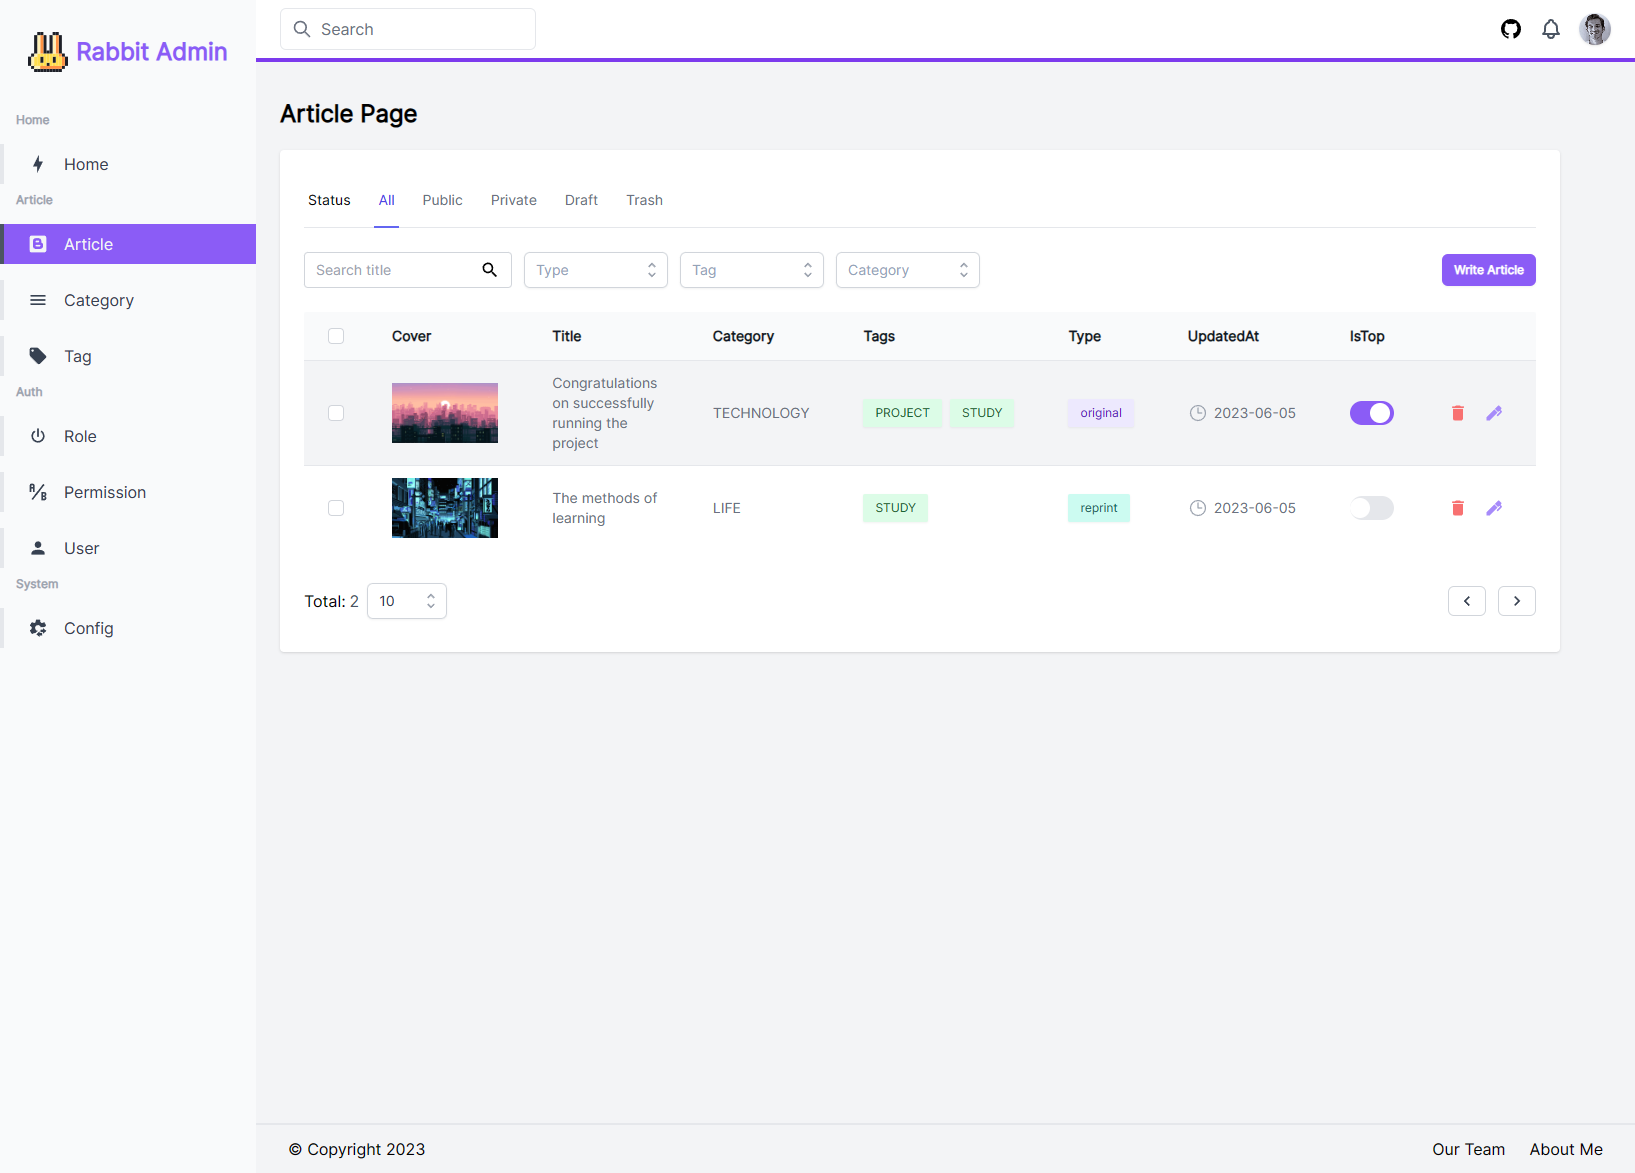
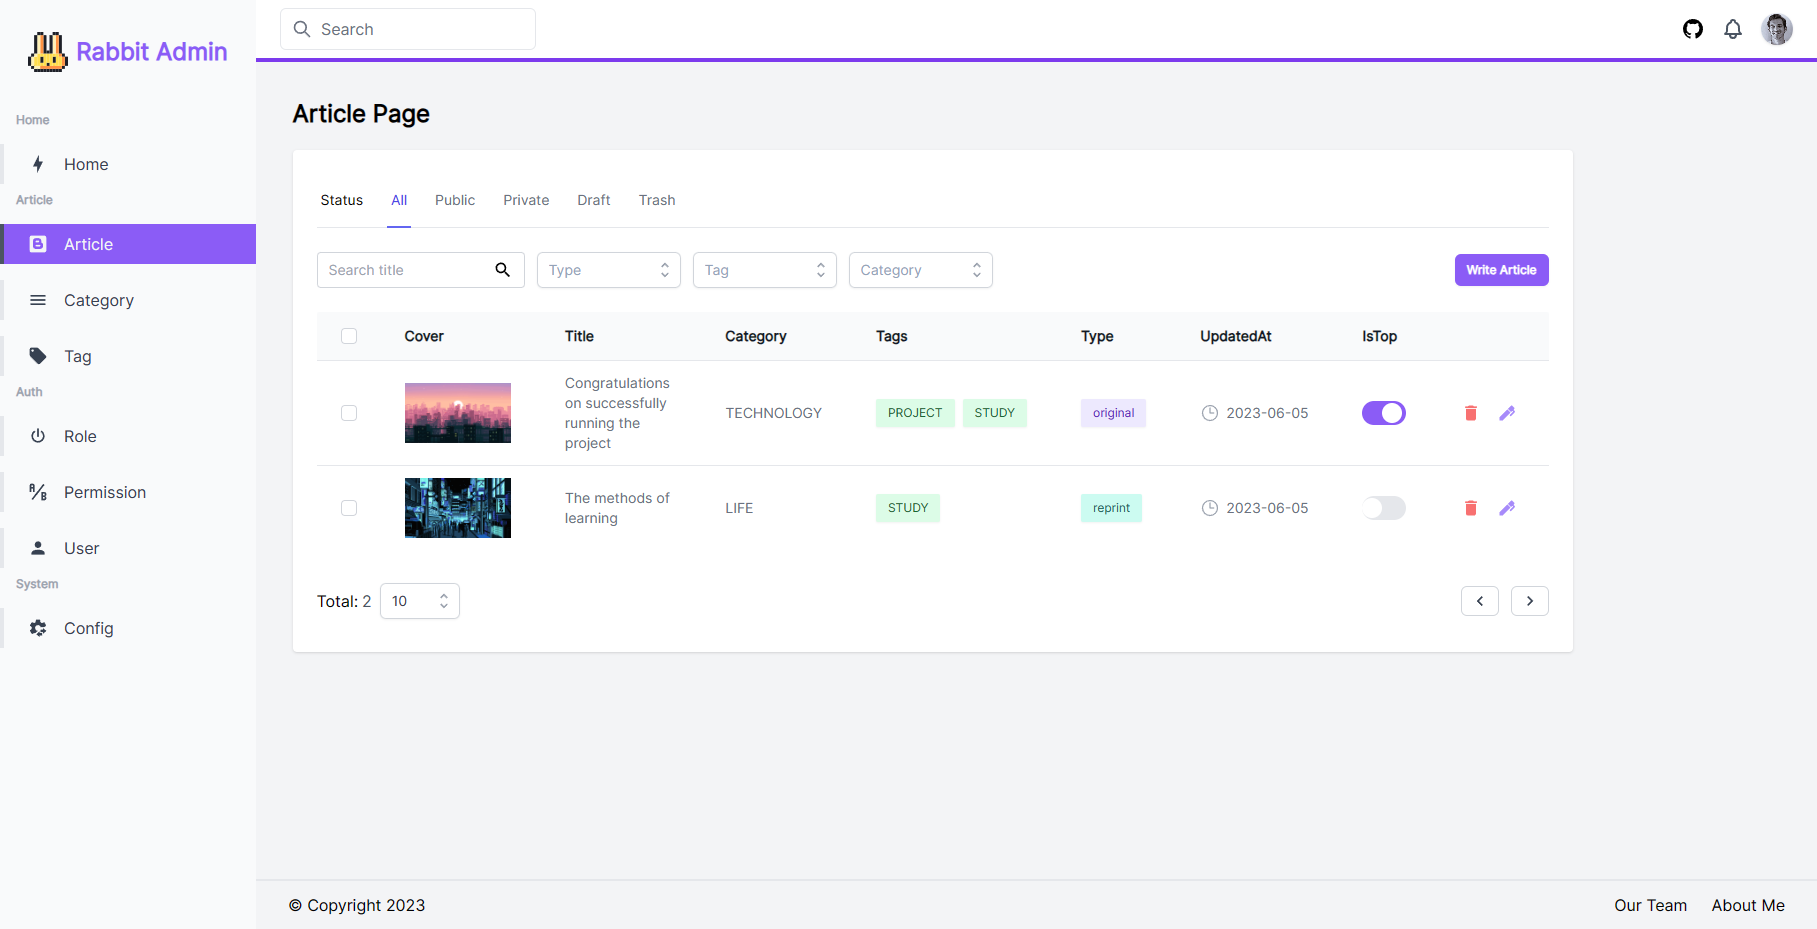
update web & README.md

diff --git a/web/src/layout/Header.vue b/web/src/layout/Header.vue
@@ -1,11 +1,10 @@
 <script setup lang="ts">
 import { ref } from 'vue'
-import cherryfulImgUrl from '../assets/cherryful.png'
 import { useSidebar } from '@/composables/useSidebar'
 import { toast } from '@/composables/useToast'
 
-const dropdownOpen = ref(false)
 const { isOpen } = useSidebar()
+const dropdownOpen = ref(false)
 const notificationOpen = ref(false)
 </script>
 
@@ -40,6 +39,7 @@ const notificationOpen = ref(false)
     </div>
 
     <div class="flex items-center">
+      <!-- github -->
       <div class="flex items-center">
         <a
           target="_blank"
@@ -47,6 +47,7 @@ const notificationOpen = ref(false)
           class="i-mdi:github h-6 w-6"
         />
       </div>
+      <!-- bell -->
       <div class="flex items-center">
         <div class="relative">
           <button
@@ -75,7 +76,7 @@ const notificationOpen = ref(false)
             >
               <img
                 class="mx-1 h-8 w-8 rounded-full object-cover"
-                :src="cherryfulImgUrl"
+                src="@/assets/cherryful.png"
                 alt="avatar"
               >
               <p class="mx-2 text-sm">
@@ -87,6 +88,7 @@ const notificationOpen = ref(false)
           </div>
         </div>
       </div>
+      <!-- avatar -->
       <div class="relative">
         <button
           class="relative z-10 block h-8 w-8 overflow-hidden rounded-full shadow focus:outline-none"
@@ -94,18 +96,16 @@ const notificationOpen = ref(false)
         >
           <img
             class="h-full w-full object-cover"
-            src="https://images.unsplash.com/photo-1528892952291-009c663ce843?ixlib=rb-1.2.1&ixid=eyJhcHBfaWQiOjEyMDd9&auto=format&fit=crop&w=296&q=80"
+            src="https://avatars.githubusercontent.com/u/48195906?v=4"
             alt="Your avatar"
           >
         </button>
-
         <div
           v-show="dropdownOpen"
           class="fixed inset-0 z-10 h-full w-full"
           @click="dropdownOpen = false"
         />
-
-        <transition
+        <Transition
           enter-active-class="transition duration-150 ease-out transform"
           enter-from-class="scale-95 opacity-0"
           enter-to-class="scale-100 opacity-100"
@@ -118,23 +118,16 @@ const notificationOpen = ref(false)
             class="absolute right-0 z-20 mt-2 w-48 rounded-lg bg-white py-1 shadow-xl"
           >
             <a
-              href="#"
+              href="https://github.com/szluyu99"
+              target="_blank"
               class="flex rounded-md px-4 py-2 text-sm text-gray-700 hover:bg-primary-600 hover:text-white"
             >
               <svg xmlns="http://www.w3.org/2000/svg" class="mr-1 h-5 w-5" fill="none" viewBox="0 0 24 24" stroke="currentColor" stroke-width="2">
                 <path stroke-linecap="round" stroke-linejoin="round" d="M16 7a4 4 0 11-8 0 4 4 0 018 0zM12 14a7 7 0 00-7 7h14a7 7 0 00-7-7z" />
               </svg>
-              Profile</a>
-            <a
-              href="#"
-              class="flex rounded-md px-4 py-2 text-sm text-gray-700 hover:bg-primary-600 hover:text-white"
-            >
-              <svg xmlns="http://www.w3.org/2000/svg" class="mr-1 h-5 w-5" fill="none" viewBox="0 0 24 24" stroke="currentColor" stroke-width="2">
-                <path stroke-linecap="round" stroke-linejoin="round" d="M10.325 4.317c.426-1.756 2.924-1.756 3.35 0a1.724 1.724 0 002.573 1.066c1.543-.94 3.31.826 2.37 2.37a1.724 1.724 0 001.065 2.572c1.756.426 1.756 2.924 0 3.35a1.724 1.724 0 00-1.066 2.573c.94 1.543-.826 3.31-2.37 2.37a1.724 1.724 0 00-2.572 1.065c-.426 1.756-2.924 1.756-3.35 0a1.724 1.724 0 00-2.573-1.066c-1.543.94-3.31-.826-2.37-2.37a1.724 1.724 0 00-1.065-2.572c-1.756-.426-1.756-2.924 0-3.35a1.724 1.724 0 001.066-2.573c-.94-1.543.826-3.31 2.37-2.37.996.608 2.296.07 2.572-1.065z" />
-                <path stroke-linecap="round" stroke-linejoin="round" d="M15 12a3 3 0 11-6 0 3 3 0 016 0z" />
-              </svg>
-              Settings</a>
-            <router-link
+              Profile
+            </a>
+            <RouterLink
               to="/logout"
               class="flex rounded-md px-4 py-2 text-sm text-gray-700 hover:bg-primary-600 hover:text-white"
             >
@@ -142,9 +135,9 @@ const notificationOpen = ref(false)
                 <path stroke-linecap="round" stroke-linejoin="round" d="M17 16l4-4m0 0l-4-4m4 4H7m6 4v1a3 3 0 01-3 3H6a3 3 0 01-3-3V7a3 3 0 013-3h4a3 3 0 013 3v1" />
               </svg>
               Log out
-            </router-link>
+            </RouterLink>
           </div>
-        </transition>
+        </Transition>
       </div>
     </div>
   </header>

diff --git a/web/src/layout/Sidebar.vue b/web/src/layout/Sidebar.vue
@@ -1,4 +1,5 @@
 <script setup lang="ts">
+import { ref } from 'vue'
 import { useRoute } from 'vue-router'
 import { useSidebar } from '@/composables/useSidebar'
 import { layoutDynamicRoutes } from '@/router'
@@ -12,12 +13,14 @@ interface MenuOption {
     hidden?: boolean
     externalLink?: boolean
   }>
+  _hidden: boolean
 }
 
 const { isOpen } = useSidebar()
 const route = useRoute()
 
-const menus: Array<MenuOption> = layoutDynamicRoutes.map(e => ({
+// Dynamically loading routing to generate sidebar menu
+const menus = ref<MenuOption[]>(layoutDynamicRoutes.map(e => ({
   name: e.name,
   children: e.children?.map(ee => ({
     name: ee.name,
@@ -26,8 +29,9 @@ const menus: Array<MenuOption> = layoutDynamicRoutes.map(e => ({
     externalLink: ee.meta?.externalLink || false,
     hidden: ee.meta?.hidden || false,
   })),
+  _hidden: e.meta?.hidden || false,
 }) as MenuOption,
-)
+))
 </script>
 
 <template>
@@ -51,31 +55,42 @@ const menus: Array<MenuOption> = layoutDynamicRoutes.map(e => ({
       </div>
       <nav class="mt-10">
         <template v-for="menu of menus" :key="menu.name">
-          <p class="my-2 mb-4 pl-4 text-xs font-semibold text-gray-400">
+          <p class="my-2 mb-4 flex items-center justify-between pl-4 text-sm font-semibold text-gray-400">
             {{ menu.name }}
+            <span
+              class="i-mdi:lightning-bolt mr-2 h-5 w-5 cursor-pointer duration-200"
+              :class="{ 'transform rotate-180': !menu._hidden }"
+              @click="menu._hidden = !menu._hidden"
+            />
           </p>
-          <template v-for="child of menu.children" :key="child.name">
-            <template v-if="!child.hidden">
-              <a
-                v-if="child.externalLink"
-                :href="child.href" target="_blank"
-                class="inactive mt-4 flex items-center border-l-4 px-6 py-2 duration-200"
-              >
-                <span v-if="child.icon" class="h-5 w-5" :class="child.icon" />
-                <span class="mx-4"> {{ child.name }} </span>
-              </a>
-              <router-link
-                v-else
-                class="mt-4 flex items-center border-l-4 px-6 py-2 duration-200"
-                :class="[route.path === child.href ? 'active' : 'inactive']"
-                :to="child.href"
-              >
-                <!-- <span v-if="child.icon" class="h-5 w-5" :class="child.icon" /> -->
-                <span v-if="child.icon" class="h-5 w-5" :class="child.icon" />
-                <span class="mx-4"> {{ child.name }} </span>
-              </router-link>
+          <div
+            class="duration-200 ease-in-out" :class="{
+              'opacity-0 h-0': menu._hidden,
+              'opacity-100 h-full': !menu._hidden,
+            }"
+          >
+            <template v-for="child of menu.children" :key="child.name">
+              <template v-if="!child.hidden">
+                <a
+                  v-if="child.externalLink"
+                  :href="child.href" target="_blank"
+                  class="inactive mt-4 flex items-center border-l-4 px-6 py-2 duration-200"
+                >
+                  <span v-if="child.icon" class="h-5 w-5" :class="child.icon" />
+                  <span class="mx-4"> {{ child.name }} </span>
+                </a>
+                <RouterLink
+                  v-else
+                  class="mt-4 flex items-center border-l-4 px-6 py-2 duration-200"
+                  :class="[route.path === child.href ? 'active' : 'inactive']"
+                  :to="child.href"
+                >
+                  <span v-if="child.icon" class="h-5 w-5" :class="child.icon" />
+                  <span class="mx-4"> {{ child.name }} </span>
+                </RouterLink>
+              </template>
             </template>
-          </template>
+          </div>
         </template>
       </nav>
     </div>

diff --git a/web/src/layout/Footer.vue b/web/src/layout/Footer.vue
@@ -1,7 +1,5 @@
 <script lang="ts" setup>
-import { ref } from 'vue'
-
-const currentYear = ref<number>(new Date().getFullYear())
+const currentYear = new Date().getFullYear()
 </script>
 
 <template>
@@ -11,7 +9,7 @@ const currentYear = ref<number>(new Date().getFullYear())
     </p>
 
     <div class="flex">
-      <a href="https://github.com/cherryful" target="_blank" class="mr-6 hover:text-gray-900">Our Team</a>
+      <a href="https://github.com/cherryful" target="_blank" class="mr-6 hover:text-gray-900">Our Organization</a>
       <a href="https://github.com/szluyu99" target="_blank" class="hover:text-gray-900">About Me</a>
     </div>
   </div>

diff --git a/web/vite.config.ts b/web/vite.config.ts
@@ -17,7 +17,7 @@ export default defineConfig(({ mode }) => {
     },
     plugins: [
       Vue(),
-      Unocss(), // uno.config.ts
+      Unocss(),
       visualizer({
         open: true,
         gzipSize: true,
@@ -31,10 +31,6 @@ export default defineConfig(({ mode }) => {
           changeOrigin: true,
         },
         '/auth': {
-          target: 'http://localhost:8765',
-          changeOrigin: true,
-        },
-        '/config': {
           target: 'http://localhost:8765',
           changeOrigin: true,
         },

diff --git a/web/src/views/Signup.vue b/web/src/views/Signup.vue
@@ -42,7 +42,7 @@ async function doSignup(e: Event) {
         Free Sign Up
       </h2>
       <p class="mt-2 text-center text-sm text-gray-600">
-        Create your account, it takes less than a mintue
+        Create your account, it takes less than a minute
       </p>
     </div>
 

diff --git a/web/src/composables/useToast.ts b/web/src/composables/useToast.ts
@@ -1,6 +1,5 @@
 import { createApp } from 'vue'
 import { UToast } from 'unocss-ui'
-// import UToast from '@/components/ui/Toast.vue'
 
 type ToastCtx = InstanceType<typeof UToast>
 type ToastProps = ToastCtx['$props']

diff --git a/internal/urls.go b/internal/urls.go
@@ -53,6 +53,7 @@ func (m *ServerManager) RegisterHandlers(r *gin.Engine) error {
 	return nil
 }
 
+// TODO: use group
 func (m *ServerManager) getDB(ctx *gin.Context, isCreate bool) *gorm.DB {
 	if isCreate {
 		return m.db

diff --git a/web/README.md b/web/README.md
@@ -1,6 +1,20 @@
 # rabbit admin
 
-front end powered by [unocss-ui](https://github.com/cherryful/unocss-ui)
+Related projects: 
+- front end component library powered by [unocss-ui](https://github.com/cherryful/unocss-ui)
+- front end template powered by [vue3-template](https://github.com/cherryful/vue3-template)
+
+## Technology stack
+- [Vue3](https://vuejs.org/) + [Vue Router](https://router.vuejs.org/) + [Pinia](https://pinia.vuejs.org/) + [VueUse](https://vueuse.org/)
+- [UnoCSS](https://github.com/unocss/unocss) + [UnoCSS UI](https://github.com/cherryful/unocss-ui) 
+- [Eslint](https://eslint.org/) + [@antfu/eslint-config](https://github.com/antfu/eslint-config) + @unocss/eslint-config，no Prettier
+
+
+## Quick start
+
+1. run backend server, refer to [rabbit-admin](https://github.com/szluyu99/rabbit-admin)
+
+2. run the front project
 
 ```bash
 npm install -g pnpm

diff --git a/README.md b/README.md
@@ -27,7 +27,7 @@ In addition to the basic technology stack, it is mainly based on the author's ot
 Frontend technology stack:
 - [Vue3](https://vuejs.org/) + [Vue Router](https://router.vuejs.org/) + [Pinia](https://pinia.vuejs.org/) + [VueUse](https://vueuse.org/)
 - [UnoCSS](https://github.com/unocss/unocss) + [UnoCSS UI](https://github.com/cherryful/unocss-ui) 
-- [Eslint](https://eslint.org/) + [@antfu/eslint-config](https://github.com/antfu/eslint-config)，不使用 Prettier
+- [Eslint](https://eslint.org/) + [@antfu/eslint-config](https://github.com/antfu/eslint-config) + @unocss/eslint-config，no Prettier
 
 Backend technology stack:
 - [Gin](https://gin-gonic.com/) + [Gorm](https://gorm.io/)
